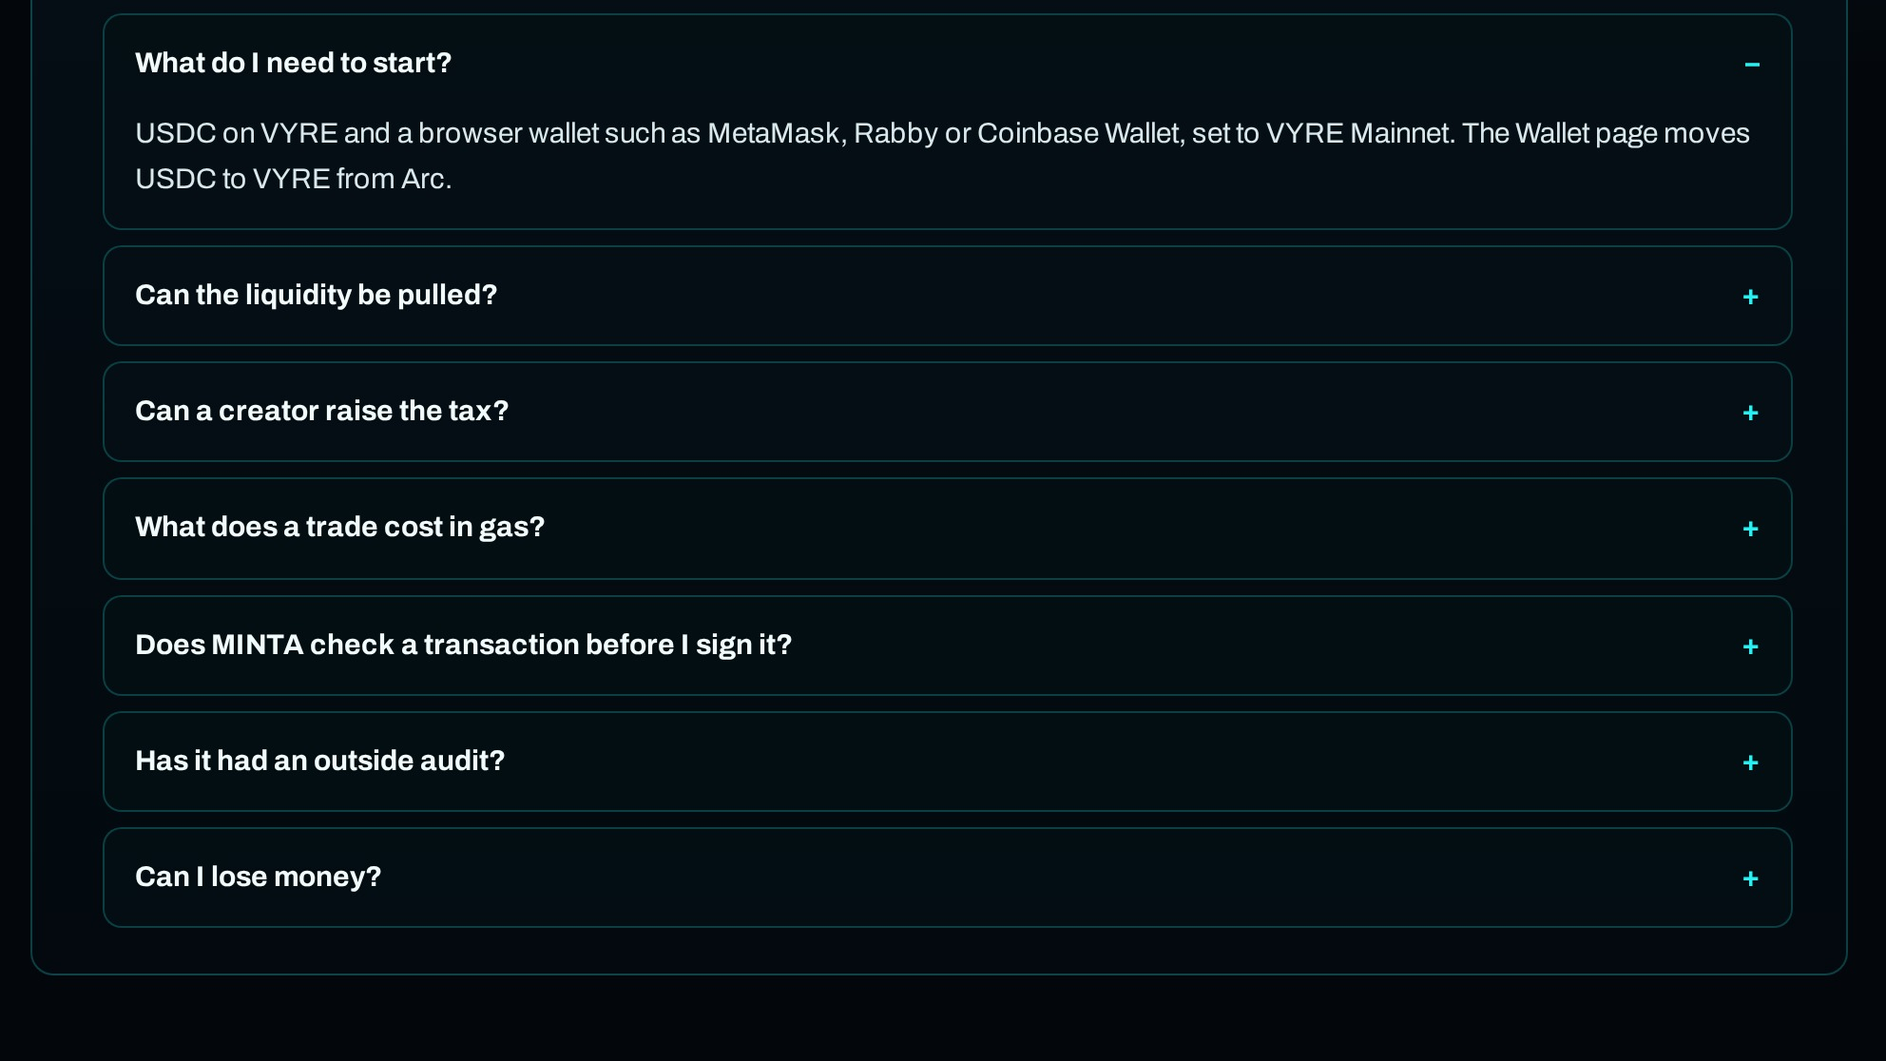
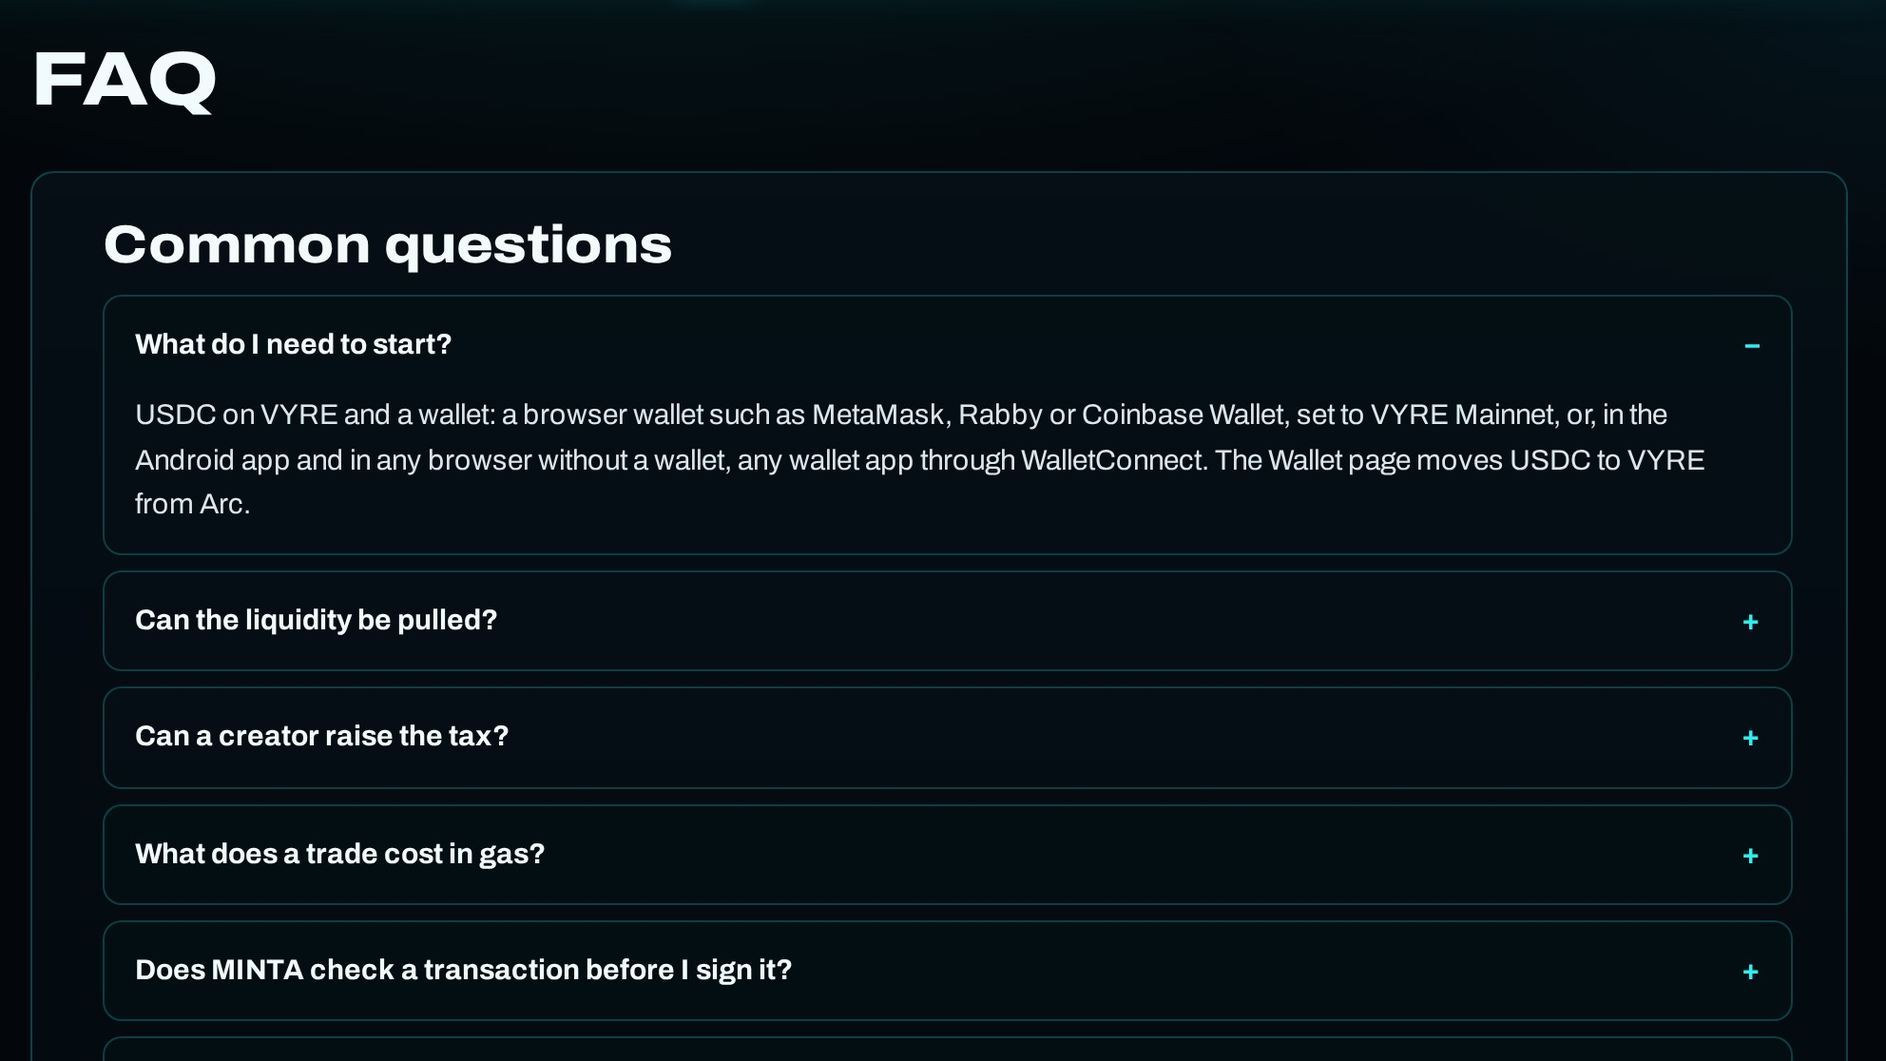
Store pictures and texts no longer show the payout split; WalletConnect guard bound to its session, typed-data domain must declare chainId, a pending pairing is cancelled on disconnect; privacy names the verification service's alternative address

Changed region(s): [[0.0625, 0.3656, 0.9375, 0.9444], [0.0, 0.0305, 0.9375, 0.1828], [0.0312, 0.2133, 0.9375, 0.3351]]

diff --git a/public/privacy/index.html b/public/privacy/index.html
@@ -53,7 +53,7 @@
             <tr><td>Open any page (the ticker along the top), the token list or a token’s page</td><td>Your browser asks the network’s explorer (explorer.vyrechain.com) for a token’s holder count and for the block at a given time, so the explorer receives the tokens shown and your IP address. Its operator’s privacy policy says what it keeps.</td></tr>
             <tr><td>Create a token with a picture, description and links</td><td>The picture you choose is shrunk and re-saved in your browser first (which drops anything but the image itself) and then sent to the picture service (api.vyrechain.com) together with the description and links you enter. They are public, and are kept so the token’s page can show them. Your IP address is used to limit how many pictures one caller can send.</td></tr>
             <tr><td>Send a transaction on VYRE (a launch, a trade, an approval, a payment)</td><td>Just before your wallet asks you to confirm, MINTA sends the transaction’s details (your wallet address, the address or contract it goes to, its call data and the USDC amount) to a check service (api.vyrechain.com). The service runs the transaction on the network without sending it, to see what it would do, and looks up the addresses it involves with a third-party security service (see section 4; it never asks about your own address, and sends no amounts or call data). It also uses your IP address to limit how often each caller can ask. The check is advisory (it never stops a transaction): MINTA waits less than a second for it, and if it is slow, busy or unavailable, or finds nothing, it goes on without saying anything. When it does find something, MINTA tells you before your wallet asks you to sign. It is only a hint and can miss things. Its operator’s privacy policy says what it keeps.</td></tr>
-            <tr><td>Connect a wallet with WalletConnect (a choice you make in the connect menu)</td><td>When you connect with WalletConnect (a choice you make in the connect menu), and again on later visits while a saved connection exists in this browser, your browser loads WalletConnect’s code (from MINTA’s own site) and opens a connection to the WalletConnect relay (relay.walletconnect.org). The relay passes encrypted messages between this page and your wallet app: it sees your IP address, MINTA’s WalletConnect project ID and the pairing, and while the connection lasts it relays each request to your wallet app (the contents are encrypted for your wallet app, so the relay cannot read them). WalletConnect’s verification service (verify.walletconnect.org) is opened in a hidden frame of the page each time MINTA asks your wallet app to connect or sign; it sees your IP address, MINTA’s project ID and MINTA’s web address. Your wallet app may in turn contact WalletConnect’s other services under its own terms. MINTA turns off the library’s usage reporting. The relay never receives your keys. Nothing is sent to WalletConnect until you pick it, and nothing after you disconnect. Its operator’s privacy policy says what it keeps.</td></tr>
+            <tr><td>Connect a wallet with WalletConnect (a choice you make in the connect menu)</td><td>When you connect with WalletConnect (a choice you make in the connect menu), and again on later visits while a saved connection exists in this browser, your browser loads WalletConnect’s code (from MINTA’s own site) and opens a connection to the WalletConnect relay (relay.walletconnect.org). The relay passes encrypted messages between this page and your wallet app: it sees your IP address, MINTA’s WalletConnect project ID and the pairing, and while the connection lasts it relays each request to your wallet app (the contents are encrypted for your wallet app, so the relay cannot read them). WalletConnect’s verification service (verify.walletconnect.org) is opened in a hidden frame of the page each time MINTA asks your wallet app to connect or sign; it sees your IP address, MINTA’s project ID and MINTA’s web address. The library also lists verify.walletconnect.com as an alternative address of that service: MINTA does not choose it, and the page’s security policy lets the frame load only from verify.walletconnect.org (the library may also make plain requests to its address, which that policy does not block). If it ever used the alternative, it would see the same things. Your wallet app may in turn contact WalletConnect’s other services under its own terms. MINTA turns off the library’s usage reporting. The relay never receives your keys. Nothing is sent to WalletConnect until you pick it, and nothing after you disconnect. Its operator’s privacy policy says what it keeps.</td></tr>
             <tr><td>Open the Wallet page, or move USDC between VYRE and Arc</td><td>Arc’s public RPC (rpc.mainnet.arc.io) receives your requests, including your wallet address, to read your balance on Arc and, for a withdrawal, whether it has been claimed there, and your IP address. Deposits and withdrawals themselves are transactions you sign from your wallet, recorded on the blockchains as section 1 says.</td></tr>
           </tbody>
         </table>

diff --git a/src/pages/Docs.tsx b/src/pages/Docs.tsx
@@ -268,8 +268,8 @@ const { token, pool, bought, hash } = await launch(wallet, client, {
   name: 'My Token',
   symbol: 'MINE',
   totalSupply: parseEther('1000000000'),
-  buyTaxBps: 100,   // 1% to you on buys
-  sellTaxBps: 100,  // 1% to you on sells
+  buyTaxBps: 100,   // 1% tax on buys
+  sellTaxBps: 100,  // 1% tax on sells
   firstBuyUsdc: parseEther('1'),
 })`}</Code>
         ),
@@ -313,11 +313,11 @@ const { token, pool, bought, hash } = await launch(wallet, client, {
         id: 'questions', title: 'Common questions',
         body: (
           <div className="faq">
-            <details open><summary>What do I need to start?</summary><p>{NETWORK.testnet ? 'Test USDC (from the faucet) and a browser wallet such as MetaMask, Rabby or Coinbase Wallet, set to VYRE Testnet. It’s a testnet, so nothing costs real money.' : `USDC on VYRE and a browser wallet such as MetaMask, Rabby or Coinbase Wallet, set to ${NETWORK.label}. The Wallet page moves USDC to VYRE from Arc.`}</p></details>
+            <details open><summary>What do I need to start?</summary><p>{NETWORK.testnet ? 'Test USDC (from the faucet) and a browser wallet such as MetaMask, Rabby or Coinbase Wallet, set to VYRE Testnet. It’s a testnet, so nothing costs real money.' : `USDC on VYRE and a wallet: a browser wallet such as MetaMask, Rabby or Coinbase Wallet, set to ${NETWORK.label}, or, in the Android app and in any browser without a wallet, any wallet app through WalletConnect. The Wallet page moves USDC to VYRE from Arc.`}</p></details>
             <details><summary>Can the liquidity be pulled?</summary><p>No. Only the launchpad can add to a pool, and nobody can remove its liquidity. {LIQUIDITY_FACT}</p></details>
             <details><summary>Can a creator raise the tax?</summary><p>No. A creator can lower either tax at any time and can never raise it.</p></details>
             <details><summary>What does a trade cost in gas?</summary><p>{NETWORK.testnet ? 'On the testnet, a buy has cost about six millionths of a dollar. ' : ''}<Ext to="https://vyrechain.com/gas">The gas page has the measurements, and every number links to a real transaction.</Ext></p></details>
-            <details><summary>Does MINTA check a transaction before I sign it?</summary><p>Yes, as a hint, for the transactions you send on VYRE from a browser wallet. Just before your wallet asks you to confirm, MINTA asks a check service ({API_HOST}) to run the transaction without sending it, and the service looks up the addresses in it with a third-party security service. If it finds something (the transaction would fail, it would let a contract spend an unlimited amount of a token, it would give permission to a contract that isn’t one of the launchpad’s own, or a security service has flagged an address in it), MINTA shows it first, with Continue anyway and Cancel. MINTA’s own approvals are always for the exact amount, so you shouldn’t see this in normal use. It waits less than a second, and if the check is slow or unavailable MINTA goes on without saying anything. It can miss things, so read what your wallet shows before you confirm. (A sale’s exact-amount permission is signed as part of the sale itself, before this check sees the transaction that carries it.) What is sent is listed in the <a href={NETWORK.testnet ? '/privacy-testnet/' : '/privacy/'}>privacy policy</a>.</p></details>
+            <details><summary>Does MINTA check a transaction before I sign it?</summary><p>Yes, as a hint, for the transactions you send on VYRE from your wallet. Just before your wallet asks you to confirm, MINTA asks a check service ({API_HOST}) to run the transaction without sending it, and the service looks up the addresses in it with a third-party security service. If it finds something (the transaction would fail, it would let a contract spend an unlimited amount of a token, it would give permission to a contract that isn’t one of the launchpad’s own, or a security service has flagged an address in it), MINTA shows it first, with Continue anyway and Cancel. MINTA’s own approvals are always for the exact amount, so you shouldn’t see this in normal use. It waits less than a second, and if the check is slow or unavailable MINTA goes on without saying anything. It can miss things, so read what your wallet shows before you confirm. (A sale’s exact-amount permission is signed as part of the sale itself, before this check sees the transaction that carries it.) What is sent is listed in the <a href={NETWORK.testnet ? '/privacy-testnet/' : '/privacy/'}>privacy policy</a>.</p></details>
             <details><summary>Has it had an outside audit?</summary><p>Not yet. The contracts have been through tests and review rounds by the network’s operator, who deployed them, {NETWORK.testnet ? 'and this is a testnet.' : 'and real money is at stake.'}</p></details>
             <details><summary>Can I lose money?</summary><p>{NETWORK.testnet ? 'On the testnet there is no real money. ' : 'Yes: this is VYRE Mainnet and the USDC is real. '}On any chain, launch tokens can go to zero and nothing here is financial advice.</p></details>
           </div>

diff --git a/public/privacy-testnet/index.html b/public/privacy-testnet/index.html
@@ -59,7 +59,7 @@
             <tr><td>Open the Wallet page</td><td>The faucet (testnet-rpc.vyrechain.com/faucet) is asked how much test USDC it gives and whether it’s open; asking it for test USDC sends it your wallet address. It receives your IP address too. Its operator’s privacy policy says what it keeps.</td></tr>
             <tr><td>Open the Wallet page with a wallet connected</td><td>The promoter service (testnet-rpc.vyrechain.com) is asked whether that wallet has applied to be a promoter, for the promoter link card, so it receives your wallet address and your IP address.</td></tr>
             <tr><td>Bring USDC from another network (the Wallet page)</td><td>Your browser asks Circle’s transfer service (iris-api-sandbox.circle.com) for its current fees while the Wallet page is open (every 15 seconds), and, for each transfer you started, its status by the transfer’s transaction hash until it arrives. Circle receives those and your IP address. The public nodes of those networks receive your wallet address, to read balances (see section 4).</td></tr>
-            <tr><td>Connect a wallet with WalletConnect (a choice you make in the connect menu)</td><td>When you connect with WalletConnect (a choice you make in the connect menu), and again on later visits while a saved connection exists in this browser, your browser loads WalletConnect’s code (from MINTA’s own site) and opens a connection to the WalletConnect relay (relay.walletconnect.org). The relay passes encrypted messages between this page and your wallet app: it sees your IP address, MINTA’s WalletConnect project ID and the pairing, and while the connection lasts it relays each request to your wallet app (the contents are encrypted for your wallet app, so the relay cannot read them). WalletConnect’s verification service (verify.walletconnect.org) is opened in a hidden frame of the page each time MINTA asks your wallet app to connect or sign; it sees your IP address, MINTA’s project ID and MINTA’s web address. Your wallet app may in turn contact WalletConnect’s other services under its own terms. MINTA turns off the library’s usage reporting. The relay never receives your keys. Nothing is sent to WalletConnect until you pick it, and nothing after you disconnect. Its operator’s privacy policy says what it keeps.</td></tr>
+            <tr><td>Connect a wallet with WalletConnect (a choice you make in the connect menu)</td><td>When you connect with WalletConnect (a choice you make in the connect menu), and again on later visits while a saved connection exists in this browser, your browser loads WalletConnect’s code (from MINTA’s own site) and opens a connection to the WalletConnect relay (relay.walletconnect.org). The relay passes encrypted messages between this page and your wallet app: it sees your IP address, MINTA’s WalletConnect project ID and the pairing, and while the connection lasts it relays each request to your wallet app (the contents are encrypted for your wallet app, so the relay cannot read them). WalletConnect’s verification service (verify.walletconnect.org) is opened in a hidden frame of the page each time MINTA asks your wallet app to connect or sign; it sees your IP address, MINTA’s project ID and MINTA’s web address. The library also lists verify.walletconnect.com as an alternative address of that service: MINTA does not choose it, and the page’s security policy lets the frame load only from verify.walletconnect.org (the library may also make plain requests to its address, which that policy does not block). If it ever used the alternative, it would see the same things. Your wallet app may in turn contact WalletConnect’s other services under its own terms. MINTA turns off the library’s usage reporting. The relay never receives your keys. Nothing is sent to WalletConnect until you pick it, and nothing after you disconnect. Its operator’s privacy policy says what it keeps.</td></tr>
           </tbody>
         </table>
       </div>

diff --git a/src/lib/wc.ts b/src/lib/wc.ts
@@ -20,7 +20,7 @@ import {
 export interface WcProvider extends EIP1193Provider {
   on(event: string, fn: (x: unknown) => void): unknown;
   removeListener(event: string, fn: (x: unknown) => void): unknown;
-  session?: { expiry?: number; namespaces?: Record<string, { accounts?: string[] }> };
+  session?: { topic?: string; expiry?: number; namespaces?: Record<string, { accounts?: string[] }> };
   disconnect?: () => Promise<void>;
 }
 
@@ -166,8 +166,12 @@ function onVyre(method: string, params: unknown): boolean {
   if (method === 'eth_signTypedData_v4') {
     let doc: unknown = params[1];
     if (typeof doc === 'string') { try { doc = JSON.parse(doc); } catch { return false; } }
-    const domain = (doc as { domain?: { chainId?: unknown } } | null)?.domain;
-    return !!domain && typeof domain === 'object' && chainNumber(domain.chainId) === CHAIN_ID;
+    const d = doc as { domain?: { chainId?: unknown }; types?: { EIP712Domain?: unknown } } | null;
+    const domain = d?.domain;
+    if (!domain || typeof domain !== 'object' || chainNumber(domain.chainId) !== CHAIN_ID) return false;
+    // the wallet hashes the domain by its declared fields: a chainId that EIP712Domain does not list would be ignored when signing
+    const fields = d?.types?.EIP712Domain;
+    return Array.isArray(fields) && fields.some((f) => (f as { name?: unknown } | null)?.name === 'chainId');
   }
   return false;
 }
@@ -180,8 +184,13 @@ function onVyre(method: string, params: unknown): boolean {
  * A request to move the wallet to another chain is refused (this connection is VYRE's only). `onLost` hears when the
  * connection is found gone.
  */
-export function guardWc(raw: WcProvider, account: string, onLost: (why: WcFailure) => void): WcProvider {
+export function guardWc(raw: WcProvider, account: string, onLostRaw: (why: WcFailure) => void): WcProvider {
+  // this guard belongs to the session that was current when it was built: a later session's end is not its to report, and it signs for no other
+  const topic = raw.session?.topic;
+  const sameSession = () => { const now = raw.session?.topic; return topic === undefined || now === undefined || now === topic; };
+  const onLost = (why: WcFailure) => { if (sameSession()) onLostRaw(why); };
   const live = async () => {
+    if (!sameSession()) throw new WcError('other', 'This connection was replaced by another one, so nothing was sent. Disconnect and connect again.');
     const [chainId, accounts] = await Promise.all([raw.request({ method: 'eth_chainId' }).catch(() => null), raw.request({ method: 'eth_accounts' }).catch(() => null)]);
     const r = wcLiveCheck({ wantChain: CHAIN_ID, chainId, account, accounts, expiry: raw.session?.expiry, now: Date.now() });
     if (!r.ok) { if (r.why === 'expired') onLost('expired'); throw new WcError(r.why, r.message); }

diff --git a/src/lib/wallet.tsx b/src/lib/wallet.tsx
@@ -100,14 +100,17 @@ export function WalletProvider({ children }: { children: ReactNode }) {
 
   /** Ends a WalletConnect connection here (the wallet app is told, if it can be reached) */
   const dropWc = useCallback(() => {
+    // a pairing still waiting for the wallet is cancelled too (a late approval must not connect after the person went another way)
+    wcAbort.current?.abort();
+    wcAbort.current = null;
     const raw = wcRaw.current;
     wcRaw.current = null;
     setSavedMark(false);
     raw?.disconnect?.().catch(() => {});
   }, []);
   /** A WalletConnect connection found ended (by the wallet, by time, or by a change of account): clear it and say so */
-  const endWc = useCallback((why: WcFailure, message?: string) => {
-    if (!wcRaw.current) return;
+  const endWc = useCallback((why: WcFailure, message?: string, from?: WcProvider) => {
+    if (!wcRaw.current || (from && wcRaw.current !== from)) return; // only the connection that is current can be ended by its own report
     dropWc();
     setCurrent(null);
     setAccount(null);
@@ -189,7 +192,7 @@ export function WalletProvider({ children }: { children: ReactNode }) {
     }
     const addr = getAddress(first);
     wcRaw.current = raw;
-    const guarded = guardWc(raw, addr, (why) => endWc(why));
+    const guarded = guardWc(raw, addr, (why) => endWc(why, undefined, raw));
     keepEmail(null);
     keepFaceId(null);
     store.set(REMEMBER, null);

diff --git a/test/harness-wc/main.tsx b/test/harness-wc/main.tsx
@@ -68,11 +68,12 @@ setWcDriver({
 });
 
 function Page() {
-  const { account, onVyre, provider: p } = useWallet();
+  const { account, onVyre, provider: p, disconnect } = useWallet();
   return (
     <main className="main narrow">
       <h1 className="h3">WalletConnect</h1>
       <ConnectButton />
+      <button id="force" onClick={disconnect}>Disconnect now</button>
       <p id="who">{account ?? 'none'}</p>
       <div id="trade">
         <TxButton label="Buy" run={async () => {

diff --git a/docs/ANDROID.md b/docs/ANDROID.md
@@ -114,7 +114,7 @@ The principle: say Yes to sharing wherever MINTA is not sure a recipient is only
 | rpc.mainnet.arc.io (Arc's public RPC) | IP address and wallet address (balance and withdrawal status on the Wallet page) |
 | Where a token's creator chose (an https host, or ipfs.io when the link is ipfs://) | IP address, when a token's details load from there |
 | Trust Wallet (link.trustwallet.com) | IP address, only if the user presses "Open in Trust Wallet" or "Open Trust Wallet" (the second also carries the WalletConnect pairing address) |
-| WalletConnect relay (relay.walletconnect.org) and verification service (verify.walletconnect.org, a hidden frame the library opens at each connect or sign request), run by Reown | IP address, MINTA's WalletConnect project ID, the pairing and MINTA's web address, and the encrypted messages between the page and the wallet app, when the user connects with WalletConnect, and again on later visits while a saved connection exists in the app's browser storage. MINTA starts the library with its usage reporting off (verified against the real relay: no request to its usage-reporting host). |
+| WalletConnect relay (relay.walletconnect.org) and verification service (verify.walletconnect.org, a hidden frame the library opens at each connect or sign request; the library also lists verify.walletconnect.com as an alternative address, which MINTA does not choose and the page's security policy does not allow as a frame), run by Reown | IP address, MINTA's WalletConnect project ID, the pairing and MINTA's web address, and the encrypted messages between the page and the wallet app, when the user connects with WalletConnect, and again on later visits while a saved connection exists in the app's browser storage. MINTA starts the library with its usage reporting off (verified against the real relay: no request to its usage-reporting host). |
 
 Fonts are served from MINTA's own site (no font service sees the visitor). Email sign-in is switched off on mainnet, so the app does not collect email addresses; the Play app is the mainnet one.
 
